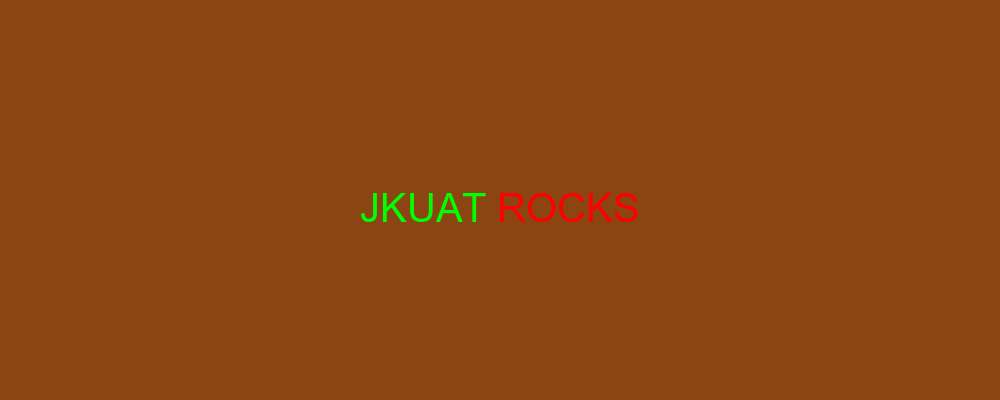
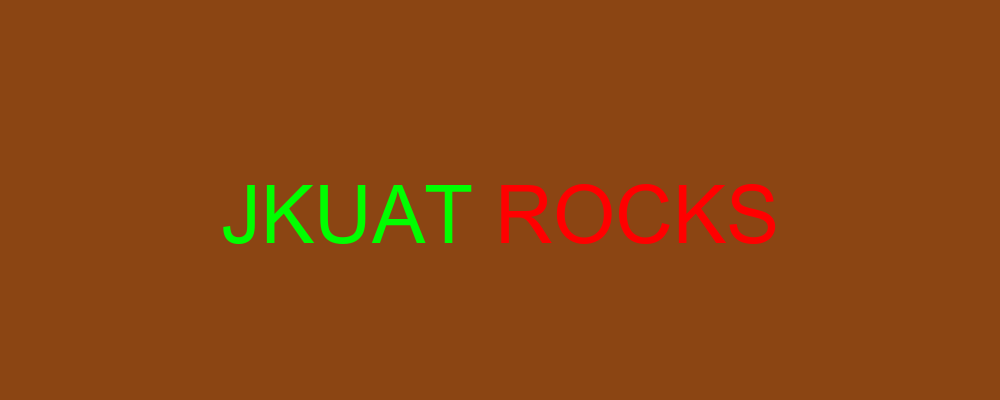
changed the font to default

Changed region(s): [[0.217, 0.45, 0.775, 0.63]]

diff --git a/Banner.py b/Banner.py
@@ -9,7 +9,7 @@ def create_centered_banner():
 
     #  Load the font
     try:
-        font = ImageFont.truetype("arial.ttf", 40)
+        font = ImageFont.truetype("arial.ttf", 80)
     except IOError:
         font = ImageFont.load_default()
 
